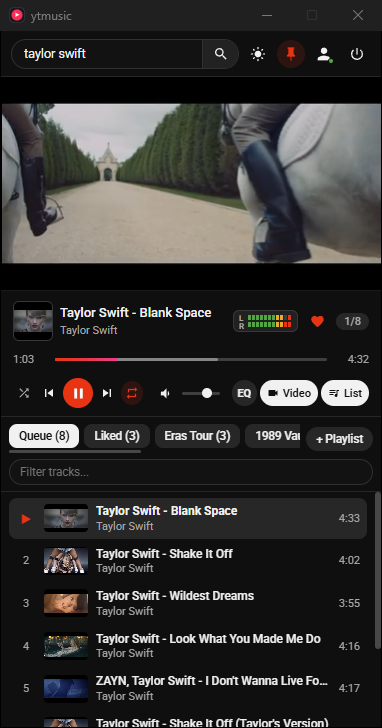
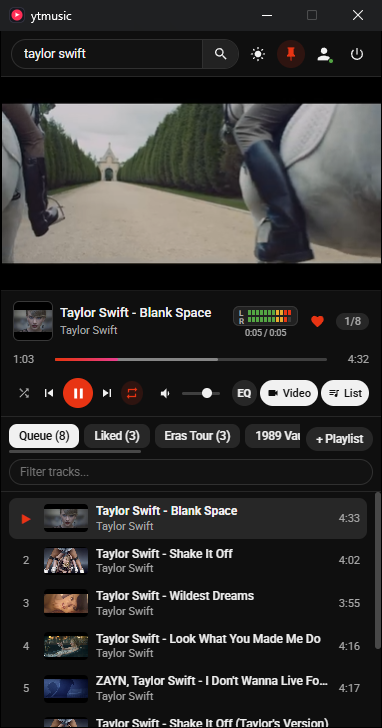
feat improvement

diff --git a/internal/ui/assets/app.js b/internal/ui/assets/app.js
@@ -40,6 +40,7 @@
   const trackCounter = document.getElementById('track-counter');
   const vuMeter = document.getElementById('vu-meter');
   const vuCanvas = document.getElementById('vu-canvas');
+  const playtimeStat = document.getElementById('playtime-stat');
 
   const timeElapsed = document.getElementById('time-elapsed');
   const timeTotal = document.getElementById('time-total');
@@ -150,8 +151,74 @@
     searchSuggestTimer: null,
     dragSourceIdx: -1,
     userInitiatedPlay: false,
+    baseTotalPlaySec: 0,
+    sessionPlayMs: 0,
+    playAnchorMs: 0,
+    playtimeTimer: null,
     popoverTrack: null,
   };
+
+  function formatCompactPlayTime(sec) {
+    if (!Number.isFinite(sec) || sec < 0) sec = 0;
+    const total = Math.floor(sec);
+    const hrs = Math.floor(total / 3600);
+    const mins = Math.floor((total % 3600) / 60);
+    const secs = total % 60;
+    if (hrs > 0) {
+      return `${hrs}h${mins < 10 ? '0' : ''}${mins}m`;
+    }
+    return `${mins}:${secs < 10 ? '0' : ''}${secs}`;
+  }
+
+  function formatFullPlayTime(sec) {
+    if (!Number.isFinite(sec) || sec < 0) sec = 0;
+    const total = Math.floor(sec);
+    const hrs = Math.floor(total / 3600);
+    const mins = Math.floor((total % 3600) / 60);
+    const secs = total % 60;
+    const pad = (n) => (n < 10 ? '0' + n : '' + n);
+    if (hrs > 0) return `${hrs}h ${pad(mins)}m ${pad(secs)}s`;
+    return `${mins}m ${pad(secs)}s`;
+  }
+
+  function updatePlaytimeUI() {
+    if (!playtimeStat) return;
+    const sessSec = Math.floor(state.sessionPlayMs / 1000);
+    const totalSec = state.baseTotalPlaySec + sessSec;
+    playtimeStat.textContent = `${formatCompactPlayTime(sessSec)} / ${formatCompactPlayTime(totalSec)}`;
+    playtimeStat.title = `Session: ${formatFullPlayTime(sessSec)} • All-time: ${formatFullPlayTime(totalSec)}`;
+  }
+
+  function flushSessionPlayTime() {
+    if (state.playAnchorMs > 0) {
+      const now = performance.now();
+      if (!media.paused && !media.ended && media.readyState >= 2) {
+        state.sessionPlayMs += Math.max(0, Math.min(10000, now - state.playAnchorMs));
+      }
+      state.playAnchorMs = now;
+    }
+  }
+
+  function startPlaytimeTracker() {
+    flushSessionPlayTime();
+    state.playAnchorMs = performance.now();
+    if (!state.playtimeTimer) {
+      state.playtimeTimer = setInterval(() => {
+        flushSessionPlayTime();
+        updatePlaytimeUI();
+      }, 1000);
+    }
+  }
+
+  function stopPlaytimeTracker() {
+    flushSessionPlayTime();
+    state.playAnchorMs = 0;
+    if (state.playtimeTimer) {
+      clearInterval(state.playtimeTimer);
+      state.playtimeTimer = null;
+    }
+    updatePlaytimeUI();
+  }
 
   function copyTrackURL(tr) {
     if (!tr || !tr.id) return;
@@ -1638,6 +1705,7 @@
 
   function pushPlaybackState() {
     if (typeof window.backendUpdatePlaybackState !== 'function') return Promise.resolve();
+    flushSessionPlayTime();
     const pos = Number.isFinite(media.currentTime) ? media.currentTime : 0;
     const playing = !media.paused && !media.ended;
     state.lastSyncMs = Date.now();
@@ -1646,7 +1714,8 @@
       pos,
       playing,
       state.volume,
-      state.muted
+      state.muted,
+      state.sessionPlayMs / 1000
     ).catch(() => {});
   }
 
@@ -2380,10 +2449,12 @@
   });
 
   media.addEventListener('waiting', () => {
+    stopPlaytimeTracker();
     videoLoading.classList.remove('hidden');
   });
 
   media.addEventListener('error', () => {
+    stopPlaytimeTracker();
     videoLoading.classList.add('hidden');
     decayVuMeterToIdle();
     if (!media.getAttribute('src')) return;
@@ -2423,16 +2494,19 @@
     videoLoading.classList.add('hidden');
     updatePlayButtonUI();
     startVuMeterLoop();
+    startPlaytimeTracker();
     pushPlaybackState();
   });
 
   media.addEventListener('pause', () => {
+    stopPlaytimeTracker();
     updatePlayButtonUI();
     decayVuMeterToIdle();
     pushPlaybackState();
   });
 
   media.addEventListener('ended', () => {
+    stopPlaytimeTracker();
     updatePlayButtonUI();
     decayVuMeterToIdle();
     playNext(true);
@@ -2632,6 +2706,8 @@
       state.vuStyle = s.vu_style === 'bar' ? 'bar' : 'led';
       state.eqPreset = ['flat', 'bass', 'vocal', 'bright'].includes(s.eq_preset) ? s.eq_preset : 'flat';
       state.playbackRate = (typeof s.playback_rate === 'number' && s.playback_rate >= 0.5 && s.playback_rate <= 2.0) ? s.playback_rate : 1.0;
+      state.baseTotalPlaySec = (typeof s.total_play_time_sec === 'number' && s.total_play_time_sec > 0) ? Math.floor(s.total_play_time_sec) : 0;
+      updatePlaytimeUI();
 
       if (vuMeter) {
         vuMeter.title = `Stereo VU Meter (${state.vuStyle === 'led' ? 'LED' : 'Bar'}) — Click to switch style`;

diff --git a/internal/ui/assets/index.html b/internal/ui/assets/index.html
@@ -114,12 +114,15 @@
           <div id="current-title" class="track-title">Search for a song to start</div>
           <div id="current-artist" class="track-artist">Audio-only mode • 30-song playlist</div>
         </div>
-        <div id="vu-meter" class="vu-meter" title="Stereo VU Meter (L / R) — Click to switch style" role="img" aria-label="Stereo VU Meter">
-          <div class="vu-labels" aria-hidden="true">
-            <span>L</span>
-            <span>R</span>
+        <div class="vu-column">
+          <div id="vu-meter" class="vu-meter" title="Stereo VU Meter (L / R) — Click to switch style" role="img" aria-label="Stereo VU Meter">
+            <div class="vu-labels" aria-hidden="true">
+              <span>L</span>
+              <span>R</span>
+            </div>
+            <canvas id="vu-canvas" class="vu-canvas" width="44" height="14"></canvas>
           </div>
-          <canvas id="vu-canvas" class="vu-canvas" width="44" height="14"></canvas>
+          <div id="playtime-stat" class="playtime-stat" title="Session: 0m 00s • All-time: 0m 00s">0:00 / 0:00</div>
         </div>
         <button id="like-btn" type="button" class="ctrl-btn sm like-btn" title="Like / Unlike song" aria-label="Like song">
           <svg id="heart-outline-icon" viewBox="0 0 24 24"><path fill="currentColor" d="M16.5 3c-1.74 0-3.41.81-4.5 2.09C10.91 3.81 9.24 3 7.5 3 4.42 3 2 5.42 2 8.5c0 3.78 3.4 6.86 8.55 11.54L12 21.35l1.45-1.32C18.6 15.36 22 12.28 22 8.5 22 5.42 19.58 3 16.5 3zm-4.4 15.55l-.1.1-.1-.1C7.14 14.24 4 11.39 4 8.5 4 6.5 5.5 5 7.5 5c1.54 0 3.04.99 3.57 2.36h1.87C13.46 5.99 14.96 5 16.5 5c2 0 3.5 1.5 3.5 3.5 0 2.89-3.14 5.74-7.9 10.05z"/></svg>

diff --git a/internal/ui/assets/styles.css b/internal/ui/assets/styles.css
@@ -628,17 +628,35 @@ html, body {
   color: var(--yt-text-primary);
 }
 
+.vu-column {
+  display: flex;
+  flex-direction: column;
+  align-items: center;
+  gap: 2px;
+  flex-shrink: 0;
+}
+
 .vu-meter {
   display: inline-flex;
   align-items: center;
   gap: 4px;
-  padding: 3px 5px;
+  padding: 2px 5px;
   border-radius: 6px;
   background: var(--yt-bg-raised);
   border: 1px solid var(--yt-border);
   flex-shrink: 0;
   cursor: pointer;
   transition: border-color 0.15s ease, background 0.15s ease;
+}
+
+.playtime-stat {
+  font-size: 9px;
+  line-height: 1;
+  font-weight: 500;
+  font-variant-numeric: tabular-nums;
+  letter-spacing: -0.2px;
+  color: var(--yt-text-secondary);
+  white-space: nowrap;
 }
 
 .vu-meter:hover {

diff --git a/internal/app/app.go b/internal/app/app.go
@@ -49,19 +49,23 @@ type loadMorePayload struct {
 
 // App coordinates the UI WebView2 window, Win32 shell/tray, YouTube client, and stream proxy.
 type App struct {
-	mu            sync.Mutex
-	state         config.AppState
-	authState     config.AuthState
-	ytClient      *youtube.Client
-	resolver      *player.Resolver
-	server        *player.Server
-	wv            webview2.WebView
-	winCtrl       *win32.Controller
-	authRunning   bool
-	exited        bool
-	sleepMinutes  int
-	sleepDeadline time.Time
-	sleepTimer    *time.Timer
+	mu               sync.Mutex
+	state            config.AppState
+	authState        config.AuthState
+	ytClient         *youtube.Client
+	resolver         *player.Resolver
+	server           *player.Server
+	wv               webview2.WebView
+	winCtrl          *win32.Controller
+	authRunning      bool
+	exited           bool
+	sleepMinutes     int
+	sleepDeadline    time.Time
+	sleepTimer       *time.Timer
+	baseTotalPlaySec int64
+	sessionPlaySec   float64
+	lastTrayPlaySec  int64
+	lastPlaySaveTime time.Time
 }
 
 // New initializes application state, YouTube client, stream resolver, and local UI/stream server.
@@ -93,11 +97,13 @@ func New() (*App, error) {
 	}
 
 	return &App{
-		state:     state,
-		authState: authState,
-		ytClient:  ytClient,
-		resolver:  resolver,
-		server:    server,
+		state:            state,
+		authState:        authState,
+		ytClient:         ytClient,
+		resolver:         resolver,
+		server:           server,
+		baseTotalPlaySec: state.TotalPlayTimeSec,
+		lastTrayPlaySec:  -1,
 	}, nil
 }
 
@@ -952,8 +958,9 @@ func (a *App) bindMethods(w webview2.WebView) error {
 		return err
 	}
 
-	if err := w.Bind("backendUpdatePlaybackState", func(index int, positionSec float64, isPlaying bool, volume float64, muted bool) error {
+	if err := w.Bind("backendUpdatePlaybackState", func(index int, positionSec float64, isPlaying bool, volume float64, muted bool, sessionPlaySec float64) error {
 		a.mu.Lock()
+		stateChanged := a.state.CurrentIndex != index || a.state.WasPlaying != isPlaying || a.state.Volume != volume || a.state.Muted != muted
 		if index >= -1 && index < len(a.state.Playlist) {
 			a.state.CurrentIndex = index
 			if index >= 0 {
@@ -970,10 +977,26 @@ func (a *App) bindMethods(w webview2.WebView) error {
 			a.state.Volume = volume
 		}
 		a.state.Muted = muted
-		snapshot := a.cloneStateLocked()
+		if sessionPlaySec > a.sessionPlaySec {
+			a.sessionPlaySec = sessionPlaySec
+			a.state.TotalPlayTimeSec = a.baseTotalPlaySec + int64(a.sessionPlaySec)
+		}
+		curSessSec := int64(a.sessionPlaySec)
+		if curSessSec != a.lastTrayPlaySec {
+			a.lastTrayPlaySec = curSessSec
+			a.updateTrayTitleLocked()
+		}
+		shouldSave := stateChanged || !isPlaying || time.Since(a.lastPlaySaveTime) >= 3*time.Second
+		var snapshot config.AppState
+		if shouldSave {
+			a.lastPlaySaveTime = time.Now()
+			snapshot = a.cloneStateLocked()
+		}
 		a.mu.Unlock()
 
-		_ = config.SaveAppState(snapshot)
+		if shouldSave {
+			_ = config.SaveAppState(snapshot)
+		}
 		return nil
 	}); err != nil {
 		return err
@@ -1182,13 +1205,35 @@ func (a *App) saveFinalState() {
 	_ = config.SaveAppState(snapshot)
 }
 
+func formatPlayTimeTooltip(sec int64) string {
+	if sec < 0 {
+		sec = 0
+	}
+	h := sec / 3600
+	m := (sec % 3600) / 60
+	s := sec % 60
+	if h > 0 {
+		return fmt.Sprintf("%dh %02dm", h, m)
+	}
+	return fmt.Sprintf("%d:%02d", m, s)
+}
+
 func (a *App) updateTrayTitleLocked() {
 	if a.winCtrl == nil {
 		return
 	}
-	tip := "ytmusic"
+	sessSec := int64(a.sessionPlaySec)
+	totalSec := a.state.TotalPlayTimeSec
+	if totalSec < a.baseTotalPlaySec+sessSec {
+		totalSec = a.baseTotalPlaySec + sessSec
+	}
+	stats := fmt.Sprintf("\nSession: %s | Total: %s", formatPlayTimeTooltip(sessSec), formatPlayTimeTooltip(totalSec))
+	tip := "ytmusic" + stats
 	if a.state.CurrentIndex >= 0 && a.state.CurrentIndex < len(a.state.Playlist) {
-		tip = "ytmusic :: " + a.state.Playlist[a.state.CurrentIndex].Title
+		const prefix = "ytmusic :: "
+		maxTitleUnits := 120 - win32.UTF16Len(prefix) - win32.UTF16Len(stats)
+		title := win32.TruncateTooltip(a.state.Playlist[a.state.CurrentIndex].Title, maxTitleUnits)
+		tip = prefix + title + stats
 	}
 	a.winCtrl.UpdateTrayTooltip(tip)
 }

diff --git a/internal/config/state_test.go b/internal/config/state_test.go
@@ -301,6 +301,7 @@ func TestAppStateRenameMoveAndAudioPrefs(t *testing.T) {
 	s.VuStyle = "bar"
 	s.EQPreset = "bass"
 	s.PlaybackRate = 1.25
+	s.TotalPlayTimeSec = 3725
 	if err := SaveAppStateTo(path, s); err != nil {
 		t.Fatalf("SaveAppStateTo failed: %v", err)
 	}
@@ -308,7 +309,7 @@ func TestAppStateRenameMoveAndAudioPrefs(t *testing.T) {
 	if err != nil {
 		t.Fatalf("LoadAppStateFrom failed: %v", err)
 	}
-	if loaded.VuStyle != "bar" || loaded.EQPreset != "bass" || loaded.PlaybackRate != 1.25 || len(loaded.RecentSearches) != 2 {
+	if loaded.VuStyle != "bar" || loaded.EQPreset != "bass" || loaded.PlaybackRate != 1.25 || loaded.TotalPlayTimeSec != 3725 || len(loaded.RecentSearches) != 2 {
 		t.Fatalf("loaded new prefs mismatch: %+v", loaded)
 	}
 }

diff --git a/internal/config/state.go b/internal/config/state.go
@@ -57,6 +57,7 @@ type AppState struct {
 	EQPreset          string          `json:"eq_preset,omitempty"`
 	PlaybackRate      float64         `json:"playback_rate,omitempty"`
 	RecentSearches    []string        `json:"recent_searches,omitempty"`
+	TotalPlayTimeSec  int64           `json:"total_play_time_sec,omitempty"`
 }
 
 // CookieEntry represents a browser cookie captured during Google/YouTube login.
@@ -267,6 +268,9 @@ func normalizeAppState(s *AppState) {
 	}
 	if s.Volume < 0 || s.Volume > 1 {
 		s.Volume = 0.8
+	}
+	if s.TotalPlayTimeSec < 0 {
+		s.TotalPlayTimeSec = 0
 	}
 	if len(s.Playlist) == 0 {
 		s.CurrentIndex = -1

diff --git a/internal/win32/tray.go b/internal/win32/tray.go
@@ -146,6 +146,24 @@ func (c *Controller) initTray() {
 	c.trayAdded = r != 0
 }
 
+// TruncateTooltip limits tip to at most maxUnits UTF-16 code units with an ellipsis.
+func TruncateTooltip(tip string, maxUnits int) string {
+	return truncateTooltip(tip, maxUnits)
+}
+
+// UTF16Len returns the number of UTF-16 code units in s.
+func UTF16Len(s string) int {
+	units := 0
+	for _, r := range s {
+		if r > 0xFFFF {
+			units += 2
+		} else {
+			units++
+		}
+	}
+	return units
+}
+
 func truncateTooltip(tip string, maxUnits int) string {
 	if maxUnits <= 3 || tip == "" {
 		return ""
